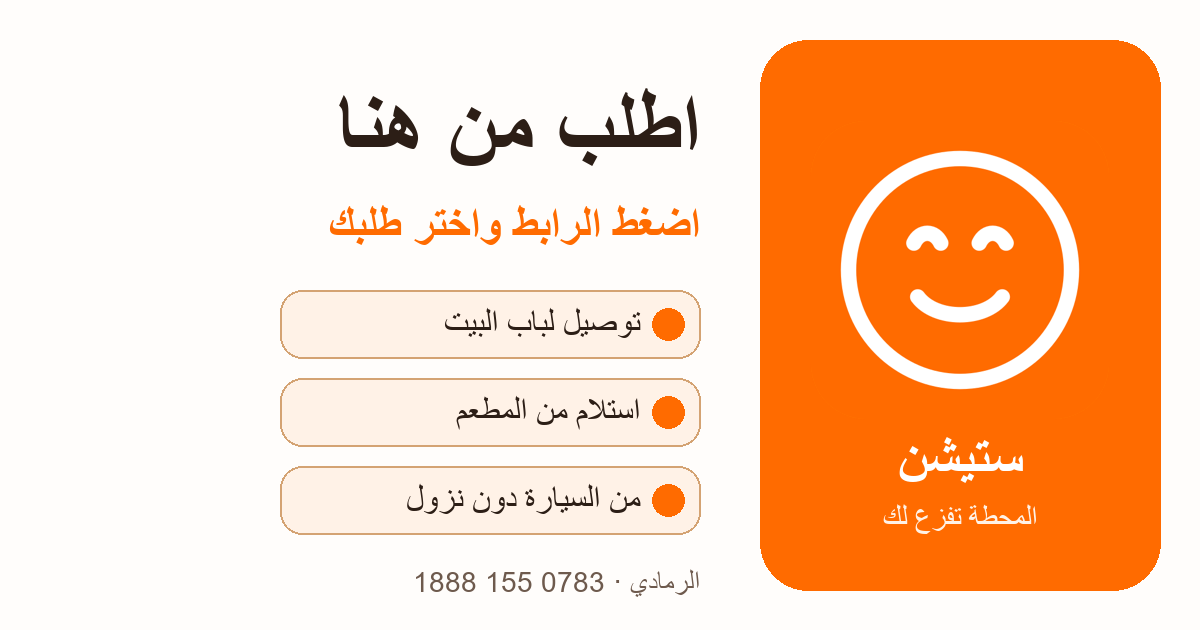
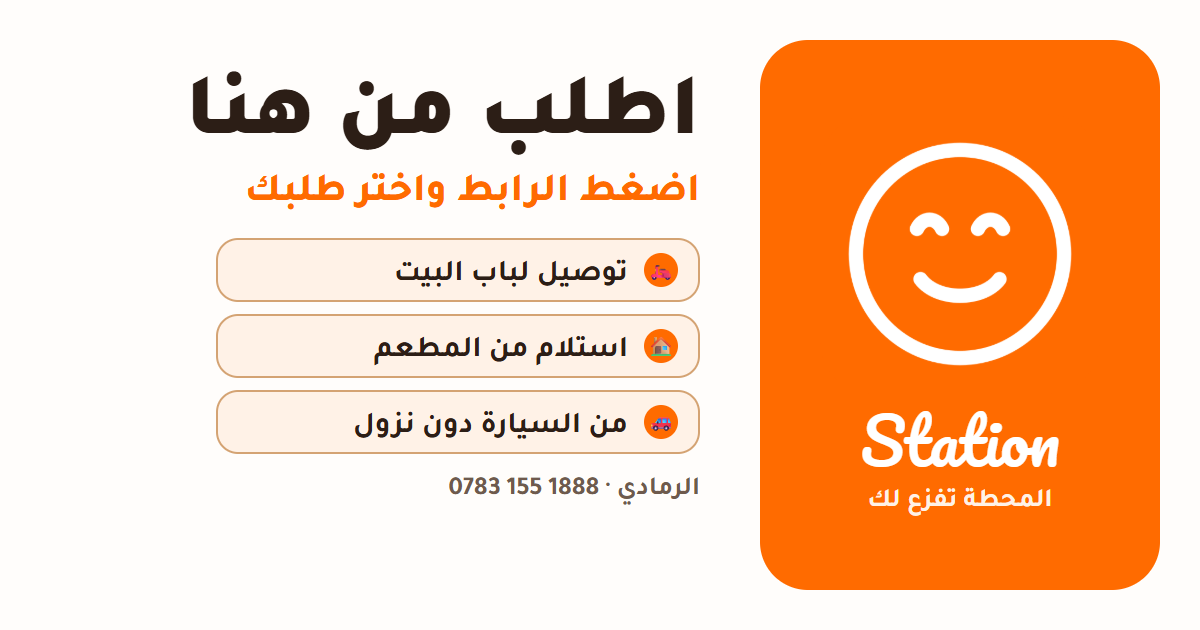
link card in the brand's own type; phone numbers that read left to right in WhatsApp
The preview card is rendered from HTML with Tajawal and the Pacifico
wordmark — the fonts the site uses — instead of a system font.

Inside an Arabic message WhatsApp reorders «0783 155 1888» group by
group; the number now goes into messages as one unbroken run
(BRAND.phoneInText) and the em dashes that rendered as stray marks are
gone. The menu's «اتصل بنا» lines isolate the number the same way the
receipt footer does.

diff --git a/src/lib/brand.ts b/src/lib/brand.ts
@@ -23,6 +23,11 @@ export const BRAND = {
 
   /** as printed on the menu board */
   phoneDisplay: "0783 155 1888",
+  /**
+   * الرقم داخل رسالة عربية: بلا مسافات، وإلا أعاد واتساب ترتيب المجموعات
+   * الثلاث من اليمين فقرأ الزبون «1888 155 0783». مقطع أرقام واحد لا يُقلب.
+   */
+  phoneInText: "07831551888",
   /** E.164 without the +, for wa.me links */
   whatsapp: "9647831551888",
 
@@ -51,17 +56,17 @@ export function whatsappOrderLink(body: string, phone: string = BRAND.whatsapp):
  */
 export function orderAcceptedLink(input: { phone: string; orderNumber: string; delivery: boolean }): string {
   const body = [
-    `تم استلام طلبك رقم ${input.orderNumber} ✅ — ${BRAND.nameAr}`,
+    `تم استلام طلبك رقم ${input.orderNumber} ✅ ${BRAND.nameAr}`,
     input.delivery ? "يصلك خلال ٣٠–٤٥ دقيقة إن شاء الله 🛵" : "يكون جاهزاً خلال ~٢٠ دقيقة 🍔",
     "",
-    `للاستفسار: ${BRAND.phoneDisplay}`,
+    `للاستفسار: ${BRAND.phoneInText}`,
   ].join("\n");
   return whatsappOrderLink(body, normaliseIraqiPhone(input.phone));
 }
 
 /** «طلبك في الطريق» — the expediter's tap when a delivery bag leaves. */
 export function deliveryOnWayLink(input: { phone: string; orderNumber: string }): string {
-  const body = [`طلبك رقم ${input.orderNumber} في الطريق إليك 🛵 — ${BRAND.nameAr}`, "", `للاستفسار: ${BRAND.phoneDisplay}`].join("\n");
+  const body = [`طلبك رقم ${input.orderNumber} في الطريق إليك 🛵 ${BRAND.nameAr}`, "", `للاستفسار: ${BRAND.phoneInText}`].join("\n");
   return whatsappOrderLink(body, normaliseIraqiPhone(input.phone));
 }
 
@@ -76,12 +81,12 @@ export function deliveryOnWayLink(input: { phone: string; orderNumber: string })
 export function curbsideReadyLink(input: { phone: string; orderNumber: string; code: string | null }): string {
   const iraqi = normaliseIraqiPhone(input.phone);
   const body = [
-    `طلبك جاهز 🍔 — ${BRAND.nameAr}`,
+    `طلبك جاهز 🍔 ${BRAND.nameAr}`,
     `رقم الطلب: ${input.orderNumber}`,
     input.code ? `رمزك: ${input.code}` : null,
     "",
     "قبل وصولك بدقيقتين اتصل بنا ويسلّمك موظفنا طلبك مباشرة دون نزولك!",
-    BRAND.phoneDisplay,
+    BRAND.phoneInText,
   ]
     .filter((l) => l !== null)
     .join("\n");

diff --git a/src/components/cafe/MenuClient.tsx b/src/components/cafe/MenuClient.tsx
@@ -606,7 +606,7 @@ export function MenuClient({
       return;
     }
     setOrderPhase(r === "started" ? "started" : "open");
-    if (r === "error") setErr("لا اتصال — اتصل بالمطعم " + BRAND.phoneDisplay);
+    if (r === "error") setErr("لا اتصال — اتصل بالمطعم " + BRAND.phoneInText);
   }
 
   // «داخل المطعم» خيار فقط لمن جاء برابطه؛ من الشارع يختار من ثلاثة
@@ -1288,7 +1288,7 @@ export function MenuClient({
             {/* التعديل والإلغاء بيد الزبون حتى يبدأ المطبخ — لا رسالة تُقرأ متأخرة */}
             {confirmed.orderId && orderPhase === "started" && (
               <p className="mt-3 text-sm font-black text-primary">
-                بدأ التجهيز 🔥 — للتعديل اتصل بنا {BRAND.phoneDisplay}
+                بدأ التجهيز 🔥 — للتعديل اتصل بنا <bdi dir="ltr">{BRAND.phoneDisplay}</bdi>
               </p>
             )}
             {confirmed.orderId &&
